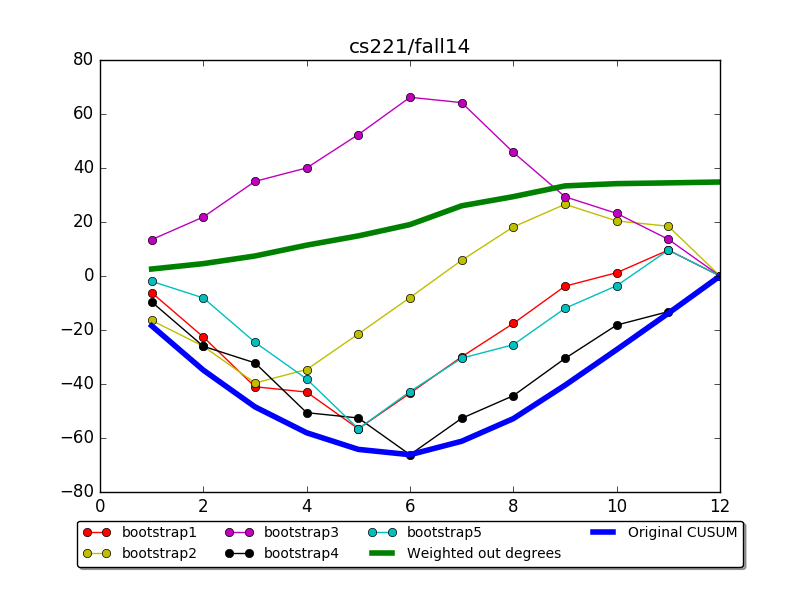
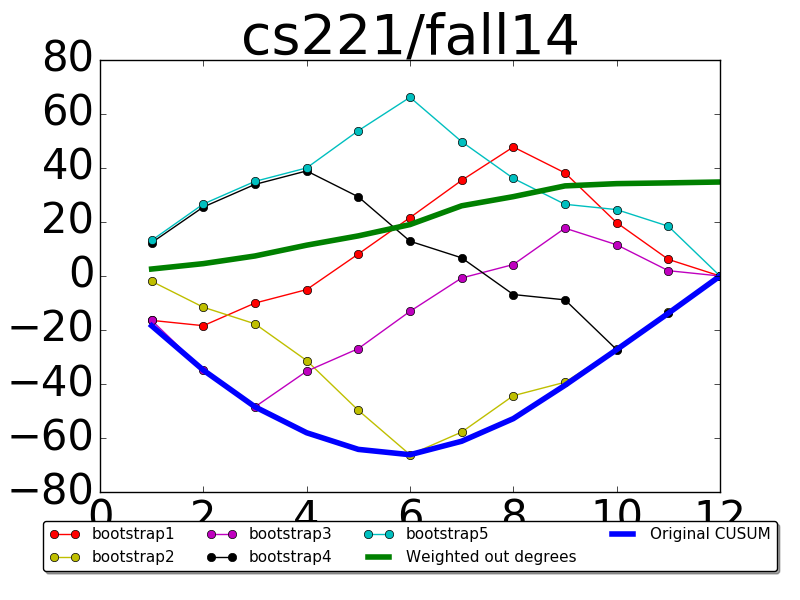
Corrected change point detection code

diff --git a/src/change_point_detection.py b/src/change_point_detection.py
@@ -2,6 +2,9 @@ import numpy as np
 import spc
 import matplotlib.patches as mpatches
 import matplotlib.pyplot as plt
+import csv
+
+from constants import *
 
 '''
 Bootstrap implementation based on www.variation.com/cpa/tech/changepoint.html
@@ -10,6 +13,7 @@ Bootstrap implementation based on www.variation.com/cpa/tech/changepoint.html
 class ChangePointModel(object):
     def __init__(self):
         self.change_intervals = set()
+        self.points = []
 
     def compute_cusum_ts(self, ts):
         """ Compute the Cumulative Sum at each point 't' of the time series. """
@@ -29,18 +33,33 @@ class ChangePointModel(object):
     def bootstrap(self, ts, name=None, B=1000,plot=False):
         # Generating a bootstrap sample
         permutations = np.vstack([self.shuffle_timeseries(ts) for i in np.arange(0, B)])
+
         # Calculating the bootstrap CUSUM
         bootstrap_cusum = np.vstack([self.compute_cusum_ts(p) for p in permutations])
+        #print bootstrap_cusum
 
         # Calculate the maximum, minimum and difference of the bootstrap CUSUM
-        S0_max = np.amax(bootstrap_cusum, axis=1)
-        S0_min = np.amin(bootstrap_cusum, axis=1)
-        S0_diff = np.subtract(S0_max,S0_min)
+        # S0_max = np.amax(bootstrap_cusum, axis=1)
+        # S0_min = np.amin(bootstrap_cusum, axis=1)
+        # S0_diff = np.subtract(S0_max,S0_min)
+        #print 'S0_diff',S0_diff
 
         original_cusum = self.compute_cusum_ts(ts)
+        #print 'ORIGINAL :',original_cusum
         S_max = np.amax(original_cusum)
         S_min = np.amin(original_cusum)
         S_diff = np.subtract(S_max,S_min)
+        #print 'S_diff',S_diff
+        found_critical_point=False
+        num_small_bootstrap_diff = 0
+        for cusum in bootstrap_cusum:
+            S0_max = np.amax(cusum, axis=0)
+            S0_min = np.amax(cusum, axis=0)
+            S0_diff = S0_max - S0_min
+            if S0_diff < S_diff:
+               num_small_bootstrap_diff += 1
+        if 100*num_small_bootstrap_diff/float(1000) >= 95: 
+            found_critical_point=True
 
         if plot:
             plt.clf()
@@ -62,21 +81,23 @@ class ChangePointModel(object):
 
             # Put a legend below current axis
             ax.legend(loc='upper center', bbox_to_anchor=(0.5, -0.05),
-                      fancybox=True, shadow=True, ncol=4, fontsize=10)
+                      fancybox=True, shadow=True, ncol=4, fontsize=11)
 
             #plt.legend(loc='best')
-            plt.title(name)
+            plt.title(name, fontsize=40)
+            ax.tick_params(labelsize=30)
             print '../figures/'+name.split('/')[0]+'/cusum_'+name.split('/')[1]+'.png'
             #plt.show()
             plt.savefig('../figures/'+name.split('/')[0]+'/cusum_'+name.split('/')[1]+'.png')
-
-        return S0_diff,S_diff
+        print original_cusum
+        max_cusum_abs_value = max(abs(S_max), abs(S_min))
+        return S0_diff,S_diff,(abs(original_cusum).tolist()).index(max_cusum_abs_value),found_critical_point
 
     def confidence(self, S0_diff, S_diff):
         # Determine the number of samples for which the bootstrap difference S0diff 
         # is less than the original difference Sdiff
         X = np.sum((S0_diff[i]<=S_diff) for i in range(len(S0_diff)))
-        return X*100/float(len(S0_diff))
+        return X*100/float(1000)
 
     #def plot_bootstrap_histogram():
 
@@ -84,39 +105,66 @@ class ChangePointModel(object):
         X1 = np.sum([ts[i] for i in range(m)])/float(m)
         X2 = np.sum([ts[i] for i in range(m,len(ts))])/float(len(ts)-m)
 
-        return np.sum([(ts[i]-X1)*(ts[i]-X1) for i in range(m)]) + np.sum([(ts[i]-X2)*(ts[i]-X2) for i in range(m,len(ts))])
+        return np.sum([(ts[i]-X1)*(ts[i]-X1) for i in range(m)]) + np.sum([(ts[j]-X2)*(ts[j]-X2) for j in range(m,len(ts))])
 
     def estimate_best_m(self, ts):
         return np.argmin([self.mean_square_error(ts,m) for m in range(1,len(ts))])
+
+    def estimate_best_m2(self,ts,S_max,S_min):
+        max_cusum_abs_value = max(abs(S_max), abs(S_min))
+        print ts
+        return ts.index(max_cusum_abs_value)
 
     def run(self, ts, name=None, B=1000, plot=False):
         N = len(ts)
 
         if len(ts)>1:
-            S0_diff,S_diff = self.bootstrap(ts,name=name, B=B, plot=plot)
-            conf  = self.confidence(S0_diff,S_diff)
-
-            best_m = self.estimate_best_m(ts)
-            if conf > 99:
-                self.change_intervals.add(ts[best_m])
-            self.run(ts[:best_m+1],B)
+            S0_diff,S_diff,best_m,found_critical_point = self.bootstrap(ts,name=name, B=B, plot=plot)
+            #conf  = self.confidence(S0_diff,S_diff)
+            if found_critical_point: 
+                self.points.append(ts[best_m])
+            #print 'ts = ', ts
+            #best_m = self.estimate_best_m(ts)
+            #best_m = self.estimate_best_m2(ts, S_max, S_min)
+            # print  'best_m:',best_m
+            # print 'elem  :',ts[best_m]
+            
+           # if conf > 95:
+                #print 'conf = ',conf
+                #self.change_intervals.add(ts[best_m])
+            #print self.change_intervals
+            self.run(ts[:best_m],B)
             self.run(ts[best_m+1:],B)
+
+    def normalize(self,ts):
+        return [(x-min(ts))/(max(ts)-min(ts)) for x in ts]
 
     def plot(self,ts, plot_name = None, parameter=None):
         import matplotlib.pyplot as plt
         weeks = range(1,len(ts)+1)
-        indices = [ts.index(list(self.change_intervals)[j]) for j in range(len(self.change_intervals)) if ts.index(list(self.change_intervals)[j])!=weeks[len(weeks)-1]]
-
+        #self.indices = [ts.index(list(self.change_intervals)[j]) for j in range(len(self.change_intervals)) if ts.index(list(self.change_intervals)[j])!=weeks[len(weeks)-1]]
+        #self.indices = [0,2,4,7,10]
+        self.indices = [ts.index(self.points[j]) for j in range(len(self.points))]
         plt.figure()
         plt.xlabel('Week')
         plt.ylabel(parameter)
+        ax=plt.gca()
+        ax.set_axis_bgcolor('yellow')
         plt.title('Change point detection '+plot_name.split('/')[2] + plot_name.split('_')[-1].split('.png')[0])
 
-        for index in indices:
-            plt.axvspan(index, index+1, facecolor='#2ca02c', alpha=0.5)
+        normalized_ts = self.normalize(ts)
+        print normalized_ts
+        #for index in sorted(self.indices):
+           # plt.axvspan(index,index+1,ymin=normalized_ts[index]+0.3,ymax=normalized_ts[index+1]-0.3,facecolor='cyan', alpha=0.9, linewidth='0.0')
+        plt.axvspan(0, 2, ymin=0.2,ymax=0.4,facecolor='cyan', alpha=1, linewidth='0.0')
+        plt.axvspan(2, 4, ymin=0.3,ymax=0.5,facecolor='cyan', alpha=1, linewidth='0.0')
+        plt.axvspan(4, 7, ymin=0.4,ymax=0.85,facecolor='cyan', alpha=1, linewidth='0.0')
+        plt.axvspan(7, 10, ymin=0.3,ymax=0.65,facecolor='cyan', alpha=1, linewidth='0.0')
+        #plt.axvspan(7, 8, ymin=0.3,ymax=0.63,facecolor='cyan', alpha=0.9, linewidth='0.0')
+        plt.axvspan(10, 12, ymin=0.3,ymax=0.5,facecolor='cyan', alpha=1, linewidth='0.0')
         
-        green_patch = mpatches.Patch(color='#2ca02c', label='>99% confidence change')
-        plt.legend(loc='best',handles=[green_patch])
+        #green_patch = mpatches.Patch(color='cyan', label='>95% confidence change')
+        #plt.legend(loc='best',handles=[green_patch])
 
         # Creating control chart
         cc = spc.Spc(ts, spc.CHART_X_MR_X)
@@ -127,10 +175,22 @@ class ChangePointModel(object):
 
 
 if __name__ == "__main__":
+    '''
     ts = [0.0013316809193246381, 0.005478151755720595, 0.005588738892689889, 0.00658393992617357,
           0.007088258402213599, 0.007021522084785884, 0.007048596731015847, 0.007719706402863562,
           0.007805863541411589, 0.00787893333851693, 0.00779095482226361, 0.0077741221689227894,
           0.007966075694506278, 0.0033839897207213697]
+    '''
+    file = '../stats/cs229/fall15/top_statistics_student.csv'
+    reader = csv.DictReader(open(file,'r'))
+    ts = [float(row['Weighted Out Degree']) for row in reader]
+    if ts[0] != 0:
+        ts0 = [0] + ts
+    else:
+        ts0 = ts
+    diffs = np.diff(ts0).tolist()
     model = ChangePointModel()
-    model.run(ts,name='cs221fallsomething',plot=True)
-    #model.plot(ts)
+    model.run(diffs)
+    #model.run(ts,name='cs221fallsomething',plot=True)
+    model.plot(diffs,'../figures/cs229/'+'changepoint_'+'outdegfall15.png','Weighted Out Degree')
+    print sorted(model.indices)

diff --git a/src/small_multiples.py b/src/small_multiples.py
@@ -17,7 +17,7 @@ class smallMultiples:
       self.cols = cols
       plt.figure(1)
       font = {'weight' : 'medium',
-              'size'   : 4}
+              'size'   : 3}
       plt.rc('font', **font)
       plt.subplots_adjust(hspace=0.6)
 
@@ -86,7 +86,7 @@ class smallMultiples:
 
               plt.xticks([])
               plt.yticks([])
-              plt.title(course+' '+names[i])
+              plt.title(course+' '+names[i],fontsize=6)
               ax = plt.gca()
               ax.set_axis_bgcolor((1,normalized_y[i], 0))
               plt.plot(x, y, linewidth=1.5,color='blue')#tableau20[(n-1)%len(tableau20)])
@@ -97,5 +97,5 @@ class smallMultiples:
 
 if __name__ == "__main__":
   sm  = smallMultiples(12,7)
-  sm.plot('Pagerank')
-  #sm.plot('Weighted Out Degree')
+  #sm.plot('Pagerank')
+  sm.plot('Weighted Out Degree')

diff --git a/src/constants.py b/src/constants.py
@@ -2,6 +2,7 @@
 #COURSES =  ['cultural_heritage','econ50','humbio3a','urbanst145','womhealth']
 COURSES = ['cs221','cs229','cs231a','mse252','music320','polsci350','biomedin214','womhealth','cultural_heritage','econ50','humbio3a','urbanst145']
 #COURSES = ['cs221']
+#COURSES = ['cs221']
 DATA_DIRECTORY = '../data/'
 DB_PARAMS = {
     'host': 'localhost',
